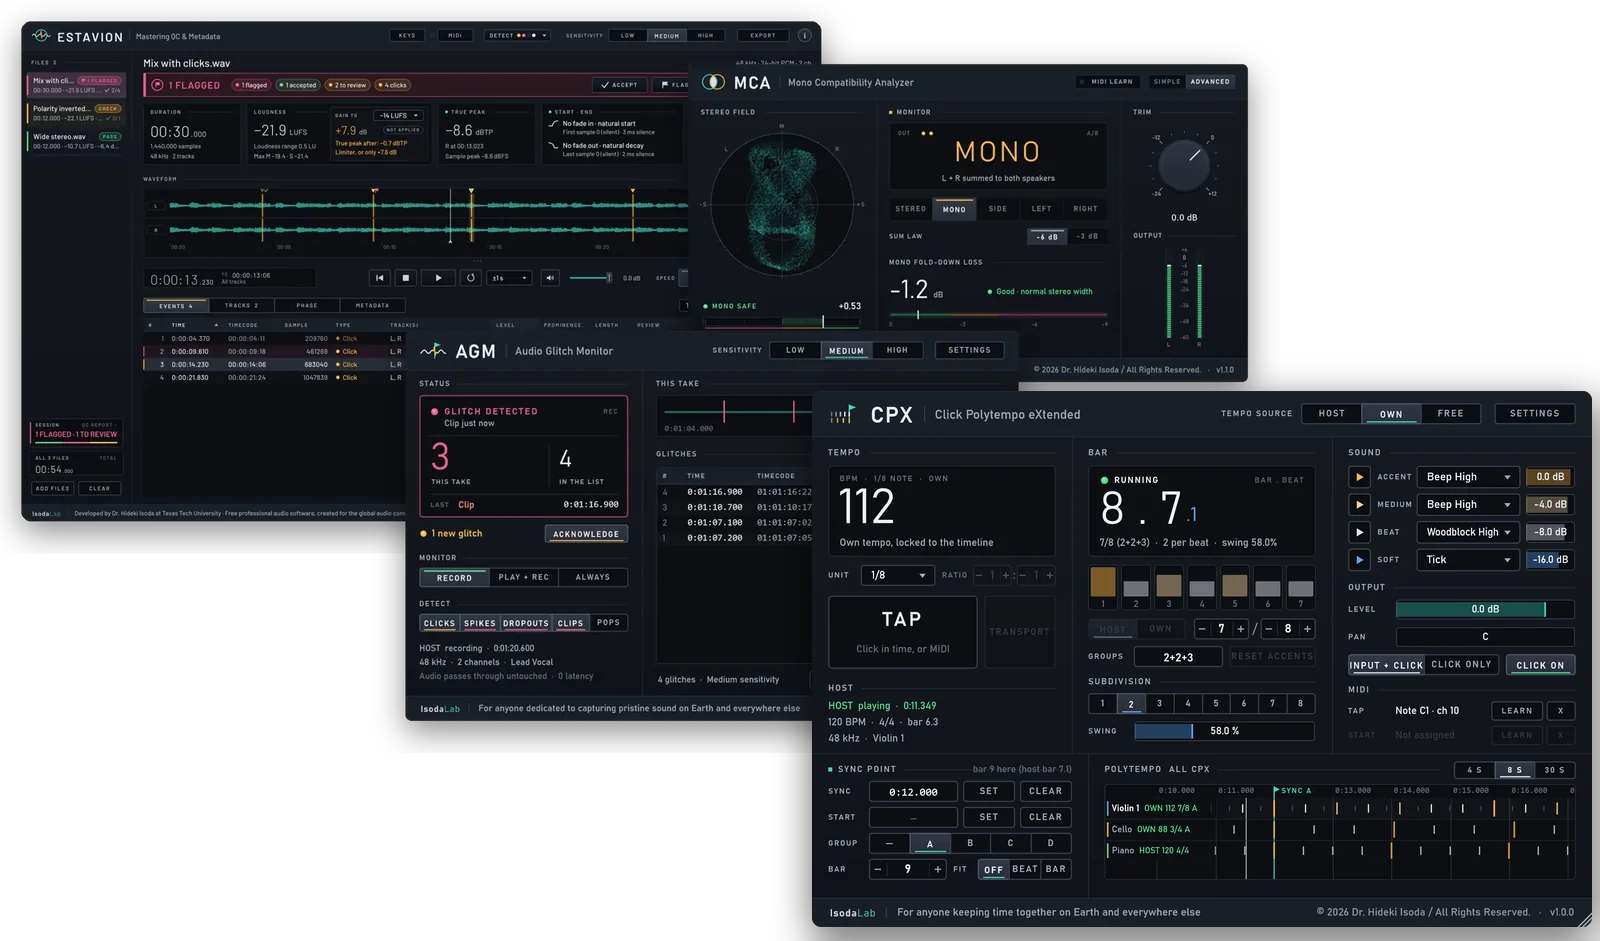
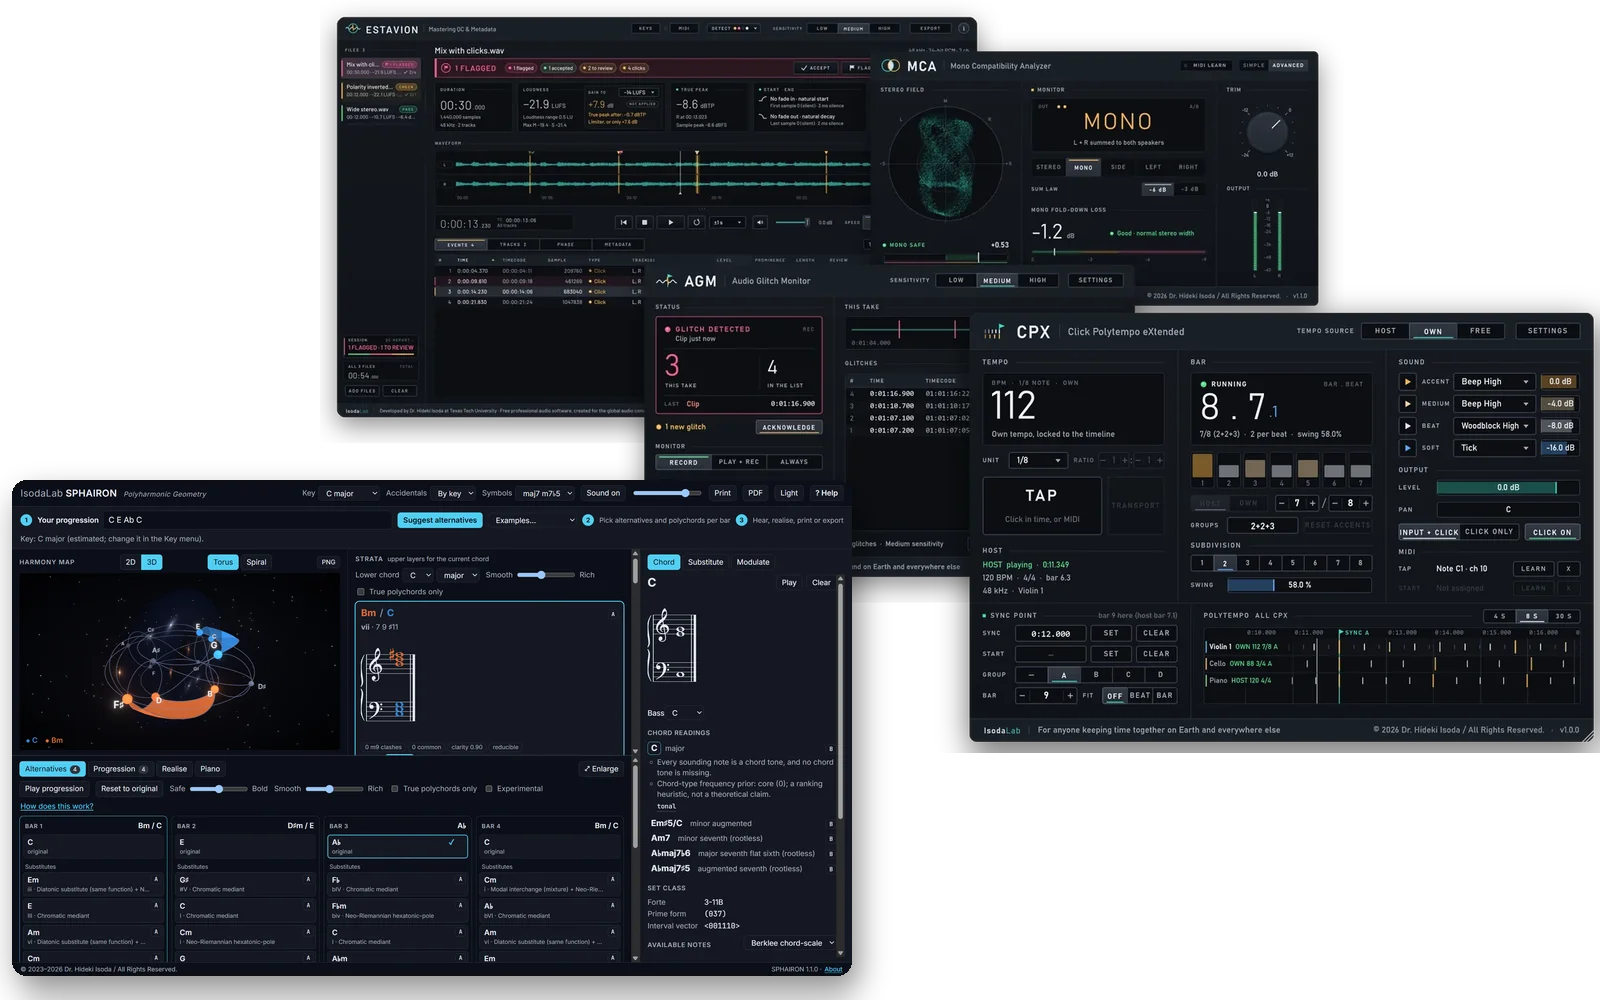
Profile: add SPHAIRON, new order and introduction, five-tool collage

diff --git a/profile/README.md b/profile/README.md
@@ -1,11 +1,16 @@
 <p align="center">
-  <a href="https://hidekiisoda.com/isodalab/"><img src="images/isodalab-suite.webp" alt="The four IsodaLab tools side by side: ESTAVION reviewing a mix, MCA showing a stereo field folded to mono, AGM reporting a glitch while recording, and CPX in its own tempo, with the click lanes of three players heading for a shared sync point."></a>
+  <a href="https://hidekiisoda.com/isodalab/"><img src="images/isodalab-suite.webp" alt="The five IsodaLab tools. In front, SPHAIRON reharmonizing a progression with polychords on a 3D Tonnetz torus; behind it, CPX in its own tempo with the click lanes of three players, AGM reporting a glitch while recording, MCA showing a stereo field folded to mono, and ESTAVION reviewing a mix."></a>
 </p>
 
-**Free professional audio software and music production tools, created for the global audio and creative community.** Each tool began as an answer to a need in real recording sessions and productions. All of them run on Windows, macOS (Apple silicon) and Linux, with no account, no license key and no data collected.
+**Advanced music production tools, shared freely with the global creative community.**
+
+SPHAIRON, CPX, AGM, MCA and ESTAVION are developed by Professor Hideki Isoda, composer and music technologist at the Texas Tech University School of Music as part of his academic community service. Each tool grew out of practical needs in his own compositional and recording work and has been refined through his teaching and research in music informatics.
+
+They are offered free of charge, with no account, no license key and no data collected. All of them run on Windows, macOS (Apple silicon) and Linux.
 
 | | Tool | What it does | Download |
 |---|---|---|---|
+| <a href="https://github.com/isodalab/sphairon"><img src="images/sphairon-icon.png" width="40" alt="SPHAIRON"></a> | **[SPHAIRON](https://github.com/isodalab/sphairon)**<br>Polyharmonic Geometry | Suggests substitutes and polychords for every chord of a progression, part-writes it for voices, orchestra and piano, and shows it in 3D harmonic geometry. Standalone app | [Latest release](https://github.com/isodalab/sphairon/releases/latest) |
 | <a href="https://github.com/isodalab/cpx"><img src="images/cpx-icon.png" width="40" alt="CPX"></a> | **[CPX](https://github.com/isodalab/cpx)**<br>Click Polytempo eXtended | Click tracks with a tempo of their own, one per player, meeting exactly on shared sync points. VST3 · AU · LV2 | [Latest release](https://github.com/isodalab/cpx/releases/latest) |
 | <a href="https://github.com/isodalab/agm"><img src="images/agm-icon.png" width="40" alt="AGM"></a> | **[AGM](https://github.com/isodalab/agm)**<br>Audio Glitch Monitor | Flags digital glitches the moment they happen while you record. VST3 · AU · LV2 | [Latest release](https://github.com/isodalab/agm/releases/latest) |
 | <a href="https://github.com/isodalab/mca"><img src="images/mca-icon.png" width="40" alt="MCA"></a> | **[MCA](https://github.com/isodalab/mca)**<br>Mono Compatibility Analyzer | Hear and measure your mix in mono, right on the master bus. VST3 · AU · LV2 | [Latest release](https://github.com/isodalab/mca/releases/latest) |
